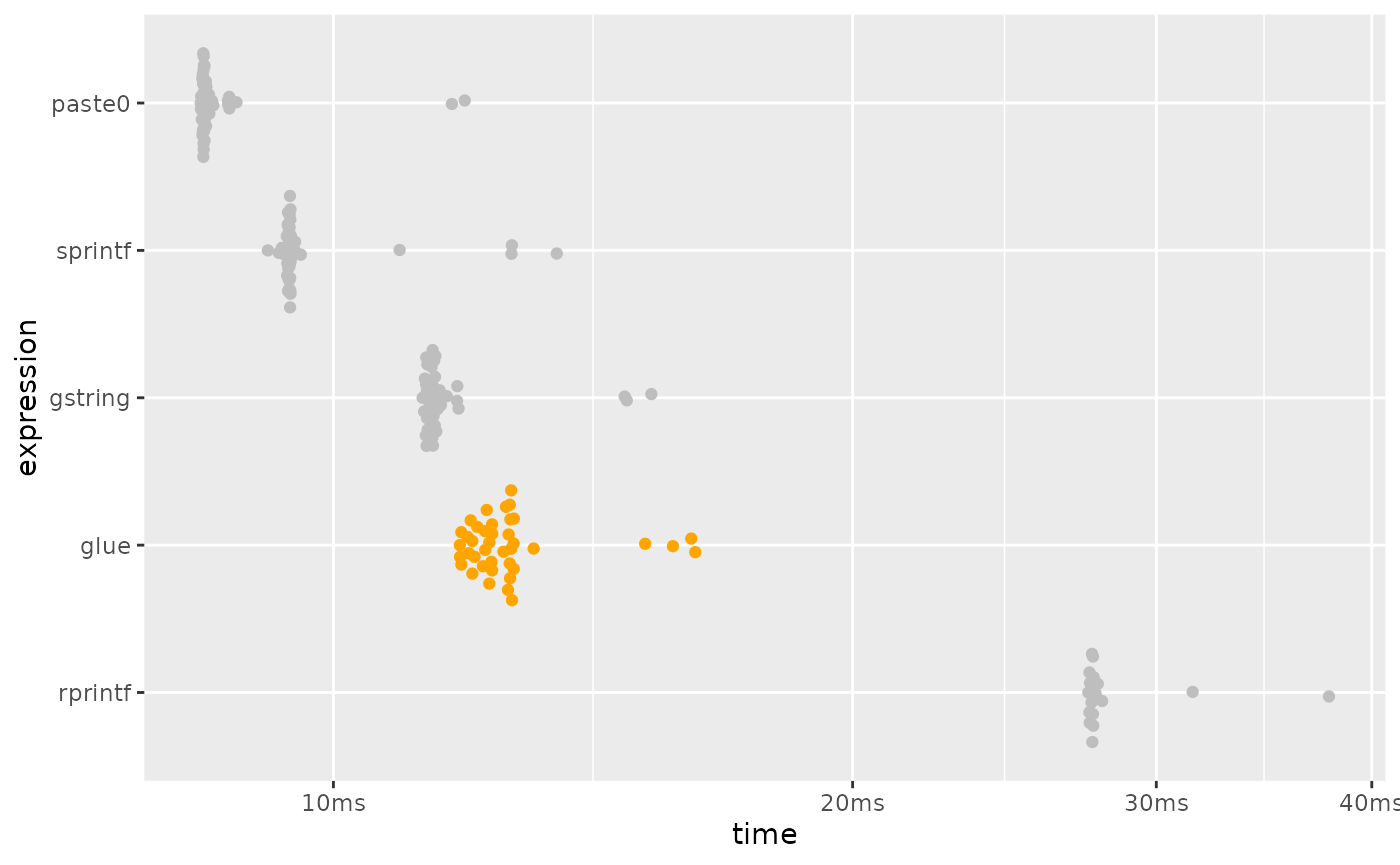
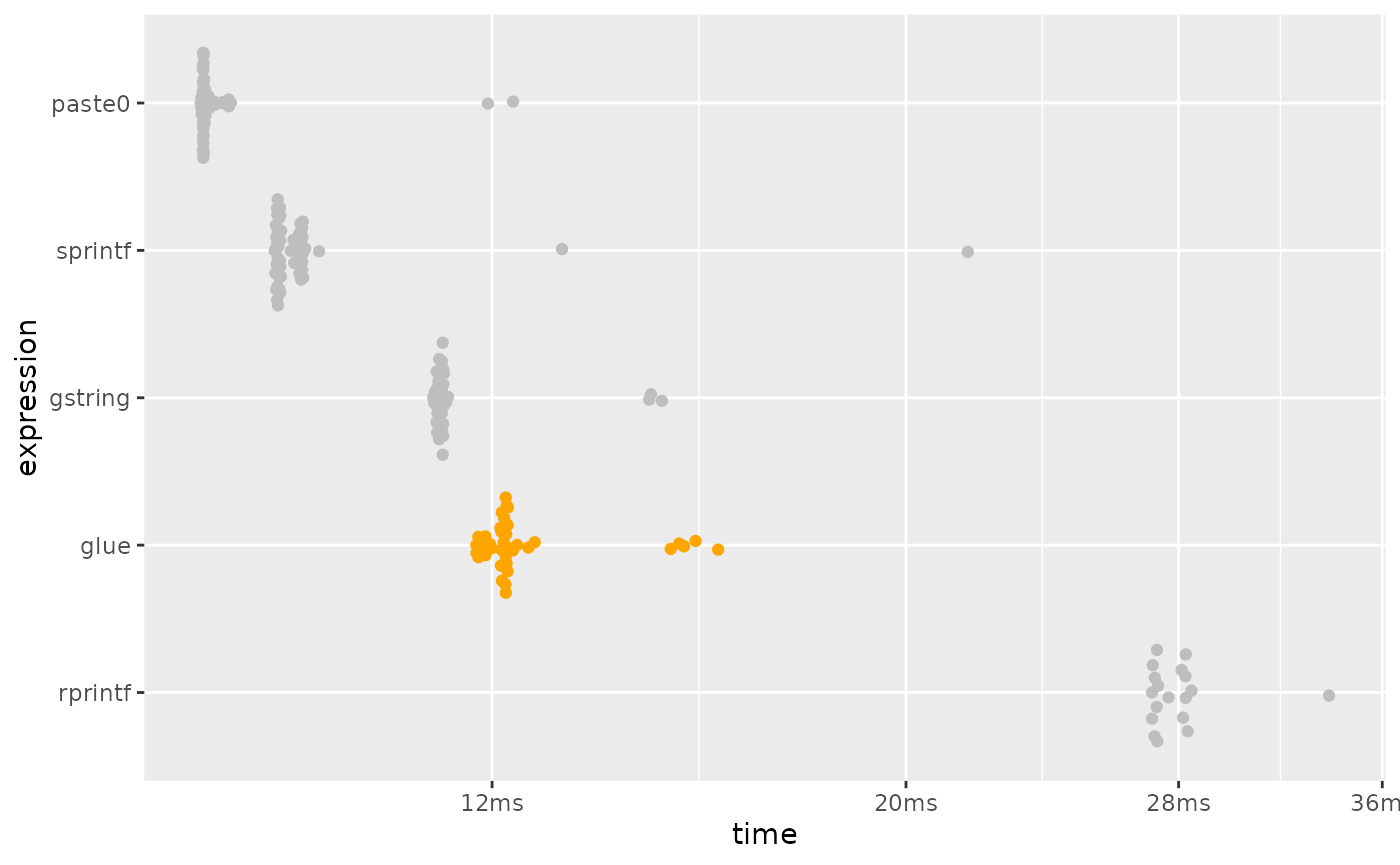
Deploying to gh-pages from @ tidyverse/glue@9f88e2179fc7aa6ff11214271fd61bba169f925c 🚀

diff --git a/dev/articles/speed.html b/dev/articles/speed.html
@@ -166,11 +166,11 @@ this benchmark, but is now formally marked as “superseded”, in favor of
 <span><span class="co">#&gt; <span style="color: #949494;"># A tibble: 5 × 6</span></span></span>
 <span><span class="co">#&gt;   expression      min   median `itr/sec` mem_alloc `gc/sec`</span></span>
 <span><span class="co">#&gt;   <span style="color: #949494; font-style: italic;">&lt;bch:expr&gt;</span> <span style="color: #949494; font-style: italic;">&lt;bch:tm&gt;</span> <span style="color: #949494; font-style: italic;">&lt;bch:tm&gt;</span>     <span style="color: #949494; font-style: italic;">&lt;dbl&gt;</span> <span style="color: #949494; font-style: italic;">&lt;bch:byt&gt;</span>    <span style="color: #949494; font-style: italic;">&lt;dbl&gt;</span></span></span>
-<span><span class="co">#&gt; <span style="color: #BCBCBC;">1</span> sprintf    731.09ns 772.07ns  1<span style="text-decoration: underline;">176</span>816.        0B      0  </span></span>
-<span><span class="co">#&gt; <span style="color: #BCBCBC;">2</span> paste0       1.49µs   1.68µs   <span style="text-decoration: underline;">565</span>461.        0B      0  </span></span>
-<span><span class="co">#&gt; <span style="color: #BCBCBC;">3</span> glue       104.09µs 110.08µs     <span style="text-decoration: underline;">8</span>783.  140.51KB     30.5</span></span>
-<span><span class="co">#&gt; <span style="color: #BCBCBC;">4</span> gstring     226.3µs 235.22µs     <span style="text-decoration: underline;">4</span>135.    2.45MB     21.4</span></span>
-<span><span class="co">#&gt; <span style="color: #BCBCBC;">5</span> rprintf    277.62µs 285.13µs     <span style="text-decoration: underline;">3</span>428.   78.14KB     12.5</span></span>
+<span><span class="co">#&gt; <span style="color: #BCBCBC;">1</span> sprintf    740.98ns   1.55µs   <span style="text-decoration: underline;">697</span>876.        0B      0  </span></span>
+<span><span class="co">#&gt; <span style="color: #BCBCBC;">2</span> paste0       1.45µs   1.62µs   <span style="text-decoration: underline;">535</span>416.        0B     53.5</span></span>
+<span><span class="co">#&gt; <span style="color: #BCBCBC;">3</span> glue        99.72µs 105.91µs     <span style="text-decoration: underline;">9</span>270.  140.51KB     31.8</span></span>
+<span><span class="co">#&gt; <span style="color: #BCBCBC;">4</span> gstring    218.86µs  228.7µs     <span style="text-decoration: underline;">4</span>301.    2.45MB     21.2</span></span>
+<span><span class="co">#&gt; <span style="color: #BCBCBC;">5</span> rprintf    273.46µs  280.7µs     <span style="text-decoration: underline;">3</span>429.   78.14KB     10.3</span></span>
 <span></span>
 <span><span class="co"># plotting function defined in a hidden chunk</span></span>
 <span><span class="fu">plot_comparison</span><span class="op">(</span><span class="va">simple</span><span class="op">)</span></span>
@@ -219,11 +219,11 @@ performance is much closer to that of <code><a href="https://rdrr.io/r/base/past
 <span><span class="co">#&gt; <span style="color: #949494;"># A tibble: 5 × 6</span></span></span>
 <span><span class="co">#&gt;   expression      min   median `itr/sec` mem_alloc `gc/sec`</span></span>
 <span><span class="co">#&gt;   <span style="color: #949494; font-style: italic;">&lt;bch:expr&gt;</span> <span style="color: #949494; font-style: italic;">&lt;bch:tm&gt;</span> <span style="color: #949494; font-style: italic;">&lt;bch:tm&gt;</span>     <span style="color: #949494; font-style: italic;">&lt;dbl&gt;</span> <span style="color: #949494; font-style: italic;">&lt;bch:byt&gt;</span>    <span style="color: #949494; font-style: italic;">&lt;dbl&gt;</span></span></span>
-<span><span class="co">#&gt; <span style="color: #BCBCBC;">1</span> paste0       8.38ms   8.42ms     118.    781.3KB     4.15</span></span>
-<span><span class="co">#&gt; <span style="color: #BCBCBC;">2</span> sprintf      9.16ms   9.43ms     105.    781.3KB     4.20</span></span>
-<span><span class="co">#&gt; <span style="color: #BCBCBC;">3</span> gstring     11.27ms  11.41ms      87.5    1.53MB     6.56</span></span>
-<span><span class="co">#&gt; <span style="color: #BCBCBC;">4</span> glue        11.84ms  12.35ms      80.9    2.29MB     8.99</span></span>
-<span><span class="co">#&gt; <span style="color: #BCBCBC;">5</span> rprintf      27.4ms  27.55ms      36.3    3.05MB     4.54</span></span>
+<span><span class="co">#&gt; <span style="color: #BCBCBC;">1</span> paste0       8.38ms   8.41ms     119.    781.3KB     4.16</span></span>
+<span><span class="co">#&gt; <span style="color: #BCBCBC;">2</span> sprintf      9.18ms   9.24ms     107.    781.3KB     4.29</span></span>
+<span><span class="co">#&gt; <span style="color: #BCBCBC;">3</span> gstring     11.16ms  11.25ms      88.8    1.53MB     6.50</span></span>
+<span><span class="co">#&gt; <span style="color: #BCBCBC;">4</span> glue        11.77ms  12.18ms      81.9    2.29MB     9.10</span></span>
+<span><span class="co">#&gt; <span style="color: #BCBCBC;">5</span> rprintf     27.09ms   27.3ms      36.2    3.05MB     2.13</span></span>
 <span></span>
 <span><span class="co"># plotting function defined in a hidden chunk</span></span>
 <span><span class="fu">plot_comparison</span><span class="op">(</span><span class="va">vectorized</span><span class="op">)</span></span></code></pre></div>
